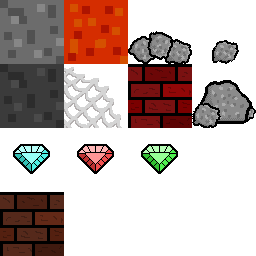
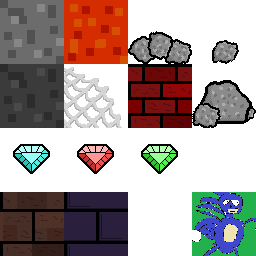
bah

Changed region(s): [[0.0, 0.75, 0.5, 1.0], [0.75, 0.75, 1.0, 1.0]]

diff --git a/src/Renderer.cpp b/src/Renderer.cpp
@@ -6,6 +6,9 @@
 #define TILE_SIZE 100
 
 const sf::Vector2f stoneTexCoords[4] = {sf::Vector2f(0, 0), sf::Vector2f(0, 64), sf::Vector2f(64, 64), sf::Vector2f(64, 0)};
+const sf::Vector2f dungeonTexCoords[4] = {sf::Vector2f(0, 192), sf::Vector2f(64, 192), sf::Vector2f(64, 256), sf::Vector2f(0, 256)};
+const sf::Vector2f blueTexCoords[4] = {sf::Vector2f(64, 192), sf::Vector2f(128, 192), sf::Vector2f(128, 256), sf::Vector2f(64, 256)};
+const sf::Vector2f cumonTexCoords[4] = {sf::Vector2f(192, 192), sf::Vector2f(256, 192), sf::Vector2f(256, 256), sf::Vector2f(192, 256)};
 const sf::Vector2f darkStoneTexCoords[4] = {sf::Vector2f(0, 64), sf::Vector2f(0, 128), sf::Vector2f(64, 128), sf::Vector2f(64, 64)};
 const sf::Vector2f lavaTexCoords[4]  = {sf::Vector2f(64, 0), sf::Vector2f(64, 64), sf::Vector2f(128, 64), sf::Vector2f(128, 0)};
 const sf::Vector2f rock1TexCoords[4]  = {sf::Vector2f(192, 0), sf::Vector2f(256, 0), sf::Vector2f(256, 64), sf::Vector2f(192, 64)};
@@ -366,7 +369,19 @@ void Renderer::drawTile(sf::VertexArray& vertexArray, float z1, float z2, int x1
 			drawTile(vertexArray, z1, z2, x2, x2, 2, 3);
 		}
 	} else {
-		texCoords = stoneTexCoords;
+		if (tunnel->getDifficulty() == 1) {
+			texCoords = dungeonTexCoords;
+		} else if (tunnel->getDifficulty() == 2) {
+			texCoords = blueTexCoords;
+		} else if (tunnel->getDifficulty() == 3) {
+			texCoords = darkStoneTexCoords;
+		} else if (tunnel->getDifficulty() == 4) {
+			texCoords = cumonTexCoords;
+		} else if (tunnel->getDifficulty() == 5) {
+			texCoords = brickTexCoords;
+		} else {
+			texCoords = stoneTexCoords;
+		}
 	}
 
 	sf::Vertex vert1(sf::Vector2f((x1 * TILE_SIZE) / sz,  (y1 * TILE_SIZE) / sz),  texCoords[0]);

diff --git a/src/Tunnel.cpp b/src/Tunnel.cpp
@@ -4,9 +4,8 @@
 #define WID 9
 
 Tunnel::Tunnel(int length, int diff) {
-    this->length = length;
 	brickWall = true;
-    reset(diff);
+    reset(length, diff);
 }
 
 int Tunnel::getLength() {
@@ -17,8 +16,9 @@ bool Tunnel::hasBrickWall() {
 	return brickWall;
 }
 
-void Tunnel::reset(int diff) {
+void Tunnel::reset(int len, int diff) {
 	difficulty = diff;
+	length = len;
 	tunnel.clear();
 	tunnel.resize(20);
     for (int i = 0; i < 20; i++) {
@@ -81,10 +81,14 @@ int* Tunnel::insertRow() {
 			}
 		}
 	}
-	if (rand() % 20 == 0) {
+	if (rand() % (30 + difficulty * 10) == 0) {
 		arr[rand() % 4 + 5] = rand() % 3 + 1;
 	}
 	return arr;
+}
+
+int Tunnel::getDifficulty() {
+	return difficulty;
 }
 
 bool Tunnel::getWeb(int z, int x) {

diff --git a/src/main.cpp b/src/main.cpp
@@ -192,8 +192,9 @@ void render() {
 
 	renderer.render(window, tunnel, player, rockZ);
 	if (renderer.renderUI(window, tunnel, player, rockZ)) {
-		if (player.z > tunnel.getLength() - 1 && player.score >= 5) difficulty++;
-		tunnel.reset(difficulty);
+		std::cout << player.z << " " << tunnel.getLength() - 1 << std::endl;
+		if (player.z > tunnel.getLength() - 2 && player.score >= 5) difficulty++;
+		tunnel.reset((difficulty + 2) * 100, difficulty);
 		player.reset();
 		renderer.reset();
 		rockZ = ROCK_START_Z;

diff --git a/src/Tunnel.h b/src/Tunnel.h
@@ -5,7 +5,7 @@
 
 class Tunnel {
 	public:
-		Tunnel(int length = 300, int difficulty = 0);
+		Tunnel(int length = 200, int difficulty = 0);
 
 		void genTo(int z);
 
@@ -19,7 +19,9 @@ class Tunnel {
 		bool hasBrickWall();
 		void breakWall();
 
-		void reset(int difficulty);
+		int getDifficulty();
+
+		void reset(int length, int difficulty);
 
 	private:
 		int* insertRow();
